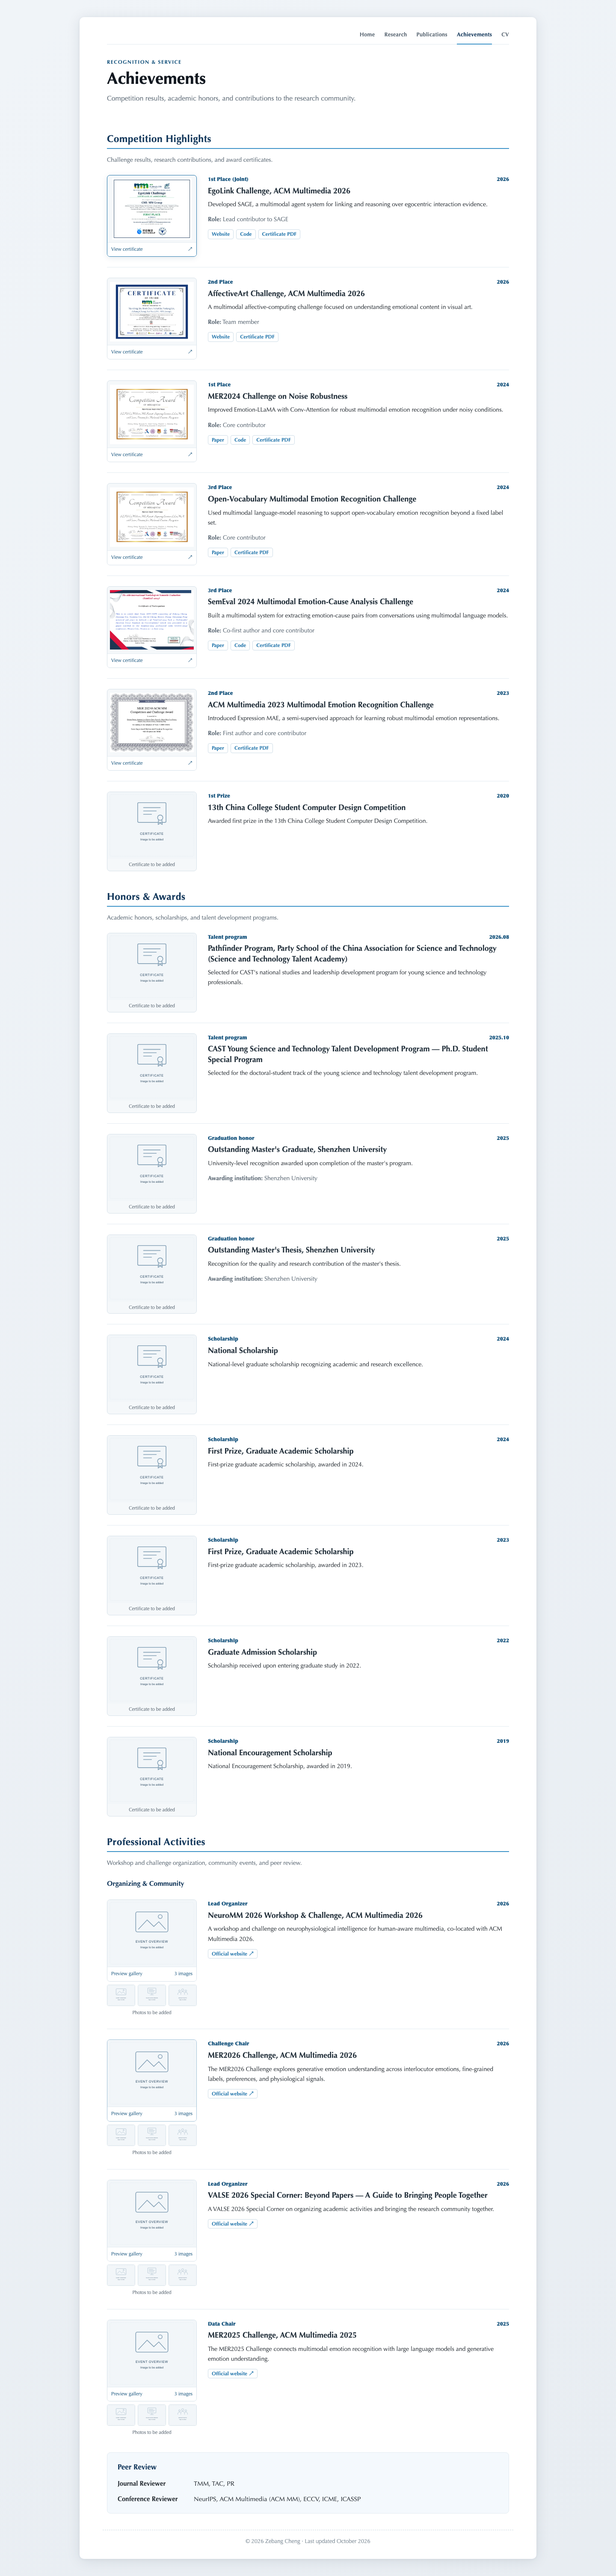
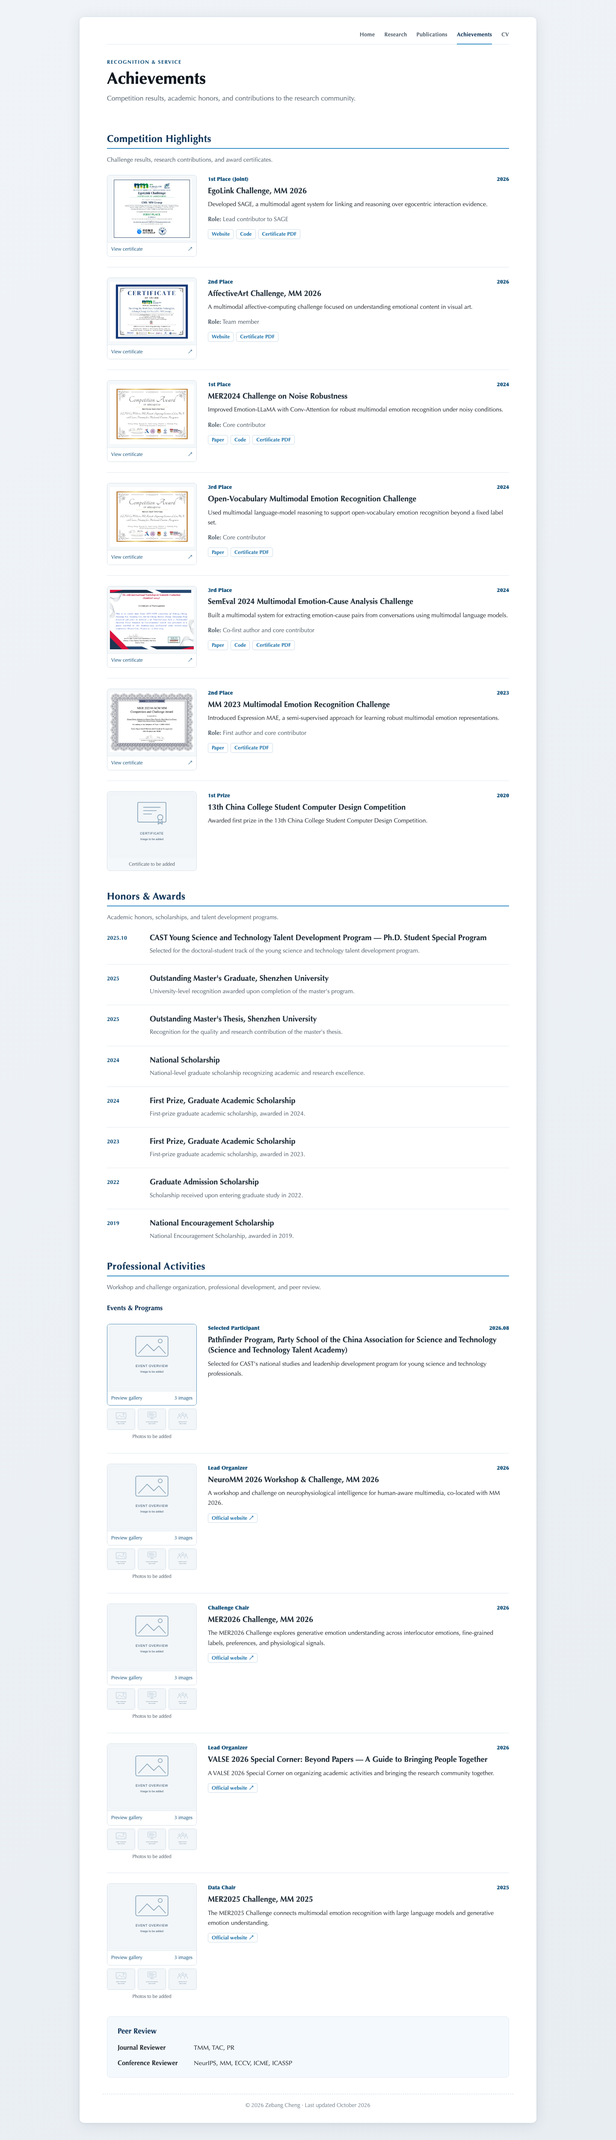
Simplify honors and move Pathfinder to activities (#21)

diff --git a/assets/css/main.css b/assets/css/main.css
@@ -696,8 +696,53 @@ footer p {
 }
 
 .achievement-section h2,
-.achievement-row {
+.achievement-row,
+.honor-row {
   scroll-margin-top: 24px;
+}
+
+.honor-list {
+  margin: 16px 0 0;
+  padding: 0;
+  list-style: none;
+}
+
+.honor-row {
+  display: grid;
+  grid-template-columns: 76px minmax(0, 1fr);
+  gap: 24px;
+  padding: 20px 0;
+  border-bottom: 1px solid var(--line);
+}
+
+.honor-row:first-child {
+  padding-top: 8px;
+}
+
+.honor-row:last-child {
+  padding-bottom: 0;
+  border-bottom: 0;
+}
+
+.honor-row > time {
+  padding-top: 2px;
+  color: var(--blue-dark);
+  font-size: 13px;
+  font-weight: 700;
+  font-variant-numeric: tabular-nums;
+}
+
+.honor-details h3 {
+  margin: 0 0 6px;
+  color: #26333e;
+  font-size: 18px;
+  line-height: 1.4;
+}
+
+.honor-details > p {
+  margin: 0;
+  color: var(--muted);
+  font-size: 14px;
 }
 
 .activity-group-title {
@@ -1120,6 +1165,16 @@ html.gallery-viewer-open {
   .achievement-meta {
     flex-wrap: wrap;
     gap: 4px 10px;
+  }
+
+  .honor-row {
+    grid-template-columns: 1fr;
+    gap: 6px;
+    padding: 18px 0;
+  }
+
+  .honor-details h3 {
+    font-size: 16px;
   }
 
   .gallery-hint {

diff --git a/_includes/honors.html b/_includes/honors.html
@@ -4,7 +4,7 @@
 <section id="honors" aria-labelledby="honors-title">
   <div class="section-heading-row">
     <h2 id="honors-title">Honors &amp; Awards</h2>
-    <a class="section-more" href="{{ '/achievements/' | relative_url }}">Awards &amp; certificates →</a>
+    <a class="section-more" href="{{ '/achievements/#honors-detail-title' | relative_url }}">All honors →</a>
   </div>
   <ul class="honors-list">
     {% for honor in displayed_honors %}

diff --git a/ACHIEVEMENT_MEDIA.md b/ACHIEVEMENT_MEDIA.md
@@ -3,7 +3,7 @@
 ## 页面分工
 
 - 首页 Honors & Awards 只显示 `_data/honors.yml` 中 `featured: true` 的非比赛荣誉，点击名称跳到详情。
-- Achievements 的 Competition Highlights 集中展示所有比赛；Honors & Awards 展示全部非比赛荣誉、说明和证书；Professional Activities 展示组织活动相册及审稿经历。
+- Achievements 的 Competition Highlights 集中展示所有比赛；Honors & Awards 仅以文字展示全部非比赛荣誉、日期及说明，不展示照片、证书或占位图；Professional Activities 展示组织、参与活动的相册及审稿经历。
 - CV 保留全部非比赛荣誉的文字列表。审稿经历不需要相册。
 
 ## 文件目录
@@ -15,10 +15,6 @@ assets/img/achievements/
 ├── competitions/<competition-id>/
 │   ├── certificate.webp          # 放大预览
 │   └── certificate-thumb.webp    # 页面缩略图
-├── honors/<honor-id>/
-│   ├── certificate.pdf           # 后续新增的原始奖状（可选）
-│   ├── certificate.webp
-│   └── certificate-thumb.webp
 ├── activities/<activity-id>/
 │   ├── event-01.jpg              # 第一张原图/大图
 │   ├── event-01-thumb.webp
@@ -31,22 +27,13 @@ assets/img/achievements/
 
 | 活动 | 照片目录（相对 `assets/img/achievements/`） |
 | --- | --- |
+| 2026 Pathfinder Program | `activities/cast-leadership-program-2026/` |
 | NeuroMM 2026 | `activities/neuromm-2026/` |
 | MER2026 | `activities/mer-2026/` |
 | VALSE 2026 Special Corner | `activities/valse-2026/` |
 | MER2025 | `activities/mer-2025/` |
 
-| 荣誉 | 奖状目录（相对 `assets/img/achievements/`） |
-| --- | --- |
-| 2026 Pathfinder Program | `honors/cast-leadership-program-2026/` |
-| 2025 CAST 博士生专项 | `honors/cast-phd-program/` |
-| 优秀硕士毕业生 | `honors/outstanding-masters-graduate/` |
-| 优秀硕士论文 | `honors/outstanding-masters-thesis/` |
-| 2024 国家奖学金 | `honors/national-scholarship-2024/` |
-| 2024 学业奖学金一等奖 | `honors/graduate-scholarship-2024/` |
-| 2023 学业奖学金一等奖 | `honors/graduate-scholarship-2023/` |
-| 2022 研究生入学奖学金 | `honors/graduate-admission-scholarship/` |
-| 2019 国家励志奖学金 | `honors/national-encouragement-scholarship/` |
+Pathfinder Program 已移至 Professional Activities，保留原有 ID `cast-leadership-program-2026`，历史链接仍可定位到该活动。后续照片放入上表对应目录，再更新 `_data/service.yml` 的 `gallery`。荣誉区不再需要准备图片；原有空的 `honors/` 目录已移除。
 
 ## 替换活动占位图
 
@@ -66,20 +53,20 @@ gallery:
 
 图注应描述真实画面。替换后删除 `placeholder: true`；它只用于 `placeholders/` 下的占位图。未提供 `thumbnail` 时会使用 `src`。不要把真实照片覆盖到共享占位文件上，否则多个活动会一起变更。
 
-## 添加奖学金、荣誉或比赛奖状
+## 添加比赛奖状
 
-编辑 `_data/honors.yml` 或 `_data/competitions.yml` 的对应条目，将空的 `gallery: []` 替换为：
+编辑 `_data/competitions.yml` 的对应条目，将空的 `gallery: []` 替换为：
 
 ```yaml
-certificate: "/assets/img/achievements/honors/national-scholarship-2024/certificate.pdf"
+certificate: "/assets/img/achievements/competitions/computer-design-2020/certificate.pdf"
 gallery:
-  - src: "/assets/img/achievements/honors/national-scholarship-2024/certificate.webp"
-    thumbnail: "/assets/img/achievements/honors/national-scholarship-2024/certificate-thumb.webp"
-    alt: "2024 National Scholarship certificate"
-    caption: "National Scholarship, 2024."
+  - src: "/assets/img/achievements/competitions/computer-design-2020/certificate.webp"
+    thumbnail: "/assets/img/achievements/competitions/computer-design-2020/certificate-thumb.webp"
+    alt: "2020 Computer Design Competition first-prize certificate"
+    caption: "Computer Design Competition, 2020."
 ```
 
-没有 PDF 时省略 `certificate`；点击预览仍可放大图片。没有真实证书图片时保留空列表，页面会显示明确的占位，不生成虚构奖状。荣誉可通过 `description`、`awarding_body`（有据可查时填写）和 `links` 补充细节。
+没有 PDF 时省略 `certificate`；点击预览仍可放大图片。没有真实证书图片时保留空列表，页面会显示明确的占位，不生成虚构奖状。荣誉信息只需在 `_data/honors.yml` 中更新名称、日期和 `description` 等文字字段。
 
 ## 图片规格与检查
 

diff --git a/README.md b/README.md
@@ -49,9 +49,11 @@ Optional `metrics` provide a source link, API endpoint and count field, plus a v
 
 ## Achievements and image galleries
 
-Competition results belong only in `_data/competitions.yml`. Non-competition honors go in `_data/honors.yml`; `featured: true` selects the concise homepage list, while Achievements and the CV include every honor. Event records in `_data/service.yml` use `kind: event` and support photo galleries; reviewer records use `kind: review`.
+Competition results belong only in `_data/competitions.yml`. Non-competition honors go in `_data/honors.yml`; `featured: true` selects the concise homepage list, while Achievements and the CV include every honor as text. Honors do not display images or certificate placeholders. Event records in `_data/service.yml` use `kind: event` and support photo galleries; reviewer records use `kind: review`.
 
-Store media by category and stable entry ID under `assets/img/achievements/`. Set `gallery: []` until a certificate is available. Each gallery item needs an image, alternative text, and a caption; a smaller thumbnail is optional:
+Pathfinder Program belongs in `_data/service.yml` as a participation activity; its future photos go in `assets/img/achievements/activities/cast-leadership-program-2026/`.
+
+Store competition and activity media by category and stable entry ID under `assets/img/achievements/`. Set `gallery: []` until a certificate is available. Each gallery item needs an image, alternative text, and a caption; a smaller thumbnail is optional:
 
 ```yaml
 - id: "challenge-2026"
@@ -72,9 +74,9 @@ Store media by category and stable entry ID under `assets/img/achievements/`. Se
 
 Check certificate files for personal identifiers, signatures, and QR codes before publishing them.
 
-Rows share a 4:3 thumbnail frame on the left, with full images in a click-to-enlarge gallery. Multiple images support buttons, arrow keys, and touch swipes. Existing PDF download URLs remain unchanged. Shared placeholder images are explicitly labeled and require `placeholder: true`; remove that flag when replacing them with real photos.
+Competition and activity rows share a 4:3 thumbnail frame on the left, with full images in a click-to-enlarge gallery. Multiple images support buttons, arrow keys, and touch swipes. Existing PDF download URLs remain unchanged. Shared placeholder images are explicitly labeled and require `placeholder: true`; remove that flag when replacing them with real photos.
 
-See [the achievement media guide](ACHIEVEMENT_MEDIA.md) for prepared folders, photo naming, image sizes, and examples for activities and scholarships.
+See [the achievement media guide](ACHIEVEMENT_MEDIA.md) for prepared folders, photo naming, image sizes, and examples for activities and competition certificates.
 
 ## Validation and publishing
 

diff --git a/achievements.md b/achievements.md
@@ -32,26 +32,24 @@ permalink: /achievements/
 <section class="detail-section achievement-section" aria-labelledby="honors-detail-title">
   <h2 id="honors-detail-title">Honors &amp; Awards</h2>
   <p class="section-lead">Academic honors, scholarships, and talent development programs.</p>
-  <div class="achievement-list">
+  <ul class="honor-list">
     {% for honor in site.data.honors %}
-      <article class="achievement-row honor-row" id="{{ honor.id }}" aria-labelledby="{{ honor.id }}-title">
-        {% include achievement-gallery.html images=honor.gallery title=honor.title document=honor.certificate %}
-        <div class="achievement-details">
-          <div class="achievement-meta"><span>{{ honor.category_label }}</span><time>{{ honor.year }}</time></div>
+      <li class="honor-row" id="{{ honor.id }}" aria-labelledby="{{ honor.id }}-title">
+        <time>{{ honor.year }}</time>
+        <div class="honor-details">
           <h3 id="{{ honor.id }}-title">{{ honor.title }}</h3>
           <p>{{ honor.description }}</p>
-          {% if honor.awarding_body %}<p class="achievement-role"><strong>Awarding institution:</strong> {{ honor.awarding_body }}</p>{% endif %}
-          {% include achievement-links.html links=honor.links document=honor.certificate %}
+          {% if honor.links %}{% include achievement-links.html links=honor.links %}{% endif %}
         </div>
-      </article>
+      </li>
     {% endfor %}
-  </div>
+  </ul>
 </section>
 
 <section class="detail-section achievement-section" aria-labelledby="service-detail-title">
   <h2 id="service-detail-title">Professional Activities</h2>
-  <p class="section-lead">Workshop and challenge organization, community events, and peer review.</p>
-  <h3 class="activity-group-title">Organizing &amp; Community</h3>
+  <p class="section-lead">Workshop and challenge organization, professional development, and peer review.</p>
+  <h3 class="activity-group-title">Events &amp; Programs</h3>
   <div class="achievement-list activity-list">
     {% for event in activities %}
       <article class="achievement-row activity-row" id="{{ event.id }}" aria-labelledby="{{ event.id }}-title">
